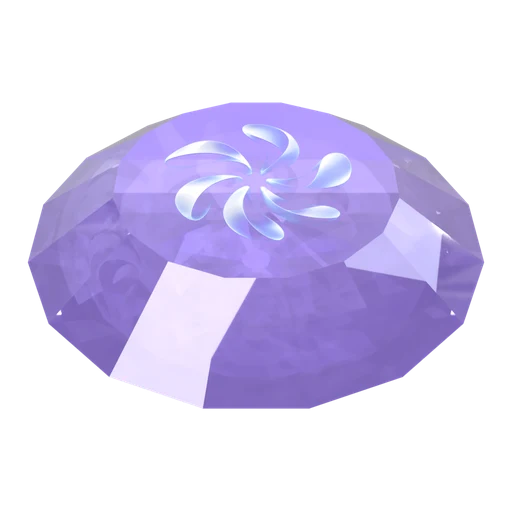
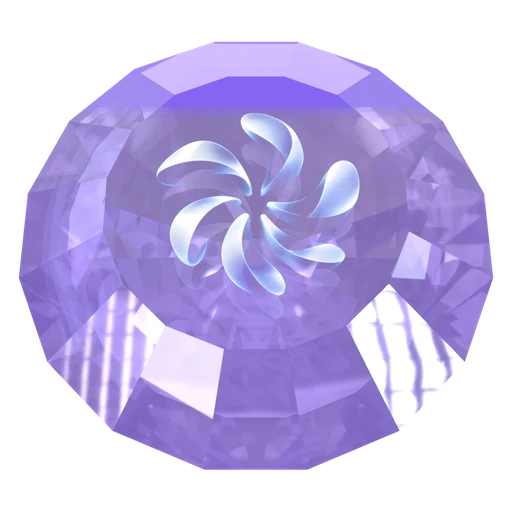
Render the emblems face-on and larger, brushed faces on the metals

diff --git a/web/src/site/Rewards.tsx b/web/src/site/Rewards.tsx
@@ -447,7 +447,7 @@ function RankHero({ ladder, unit, name, line, perks, figures, action, under }: {
         <div aria-hidden className="pointer-events-none absolute inset-0 bg-gradient-to-t from-panel
                                     via-panel/60 to-transparent" />
         <div className="relative flex flex-col items-start gap-6 sm:flex-row sm:items-center sm:gap-9">
-          <Emblem tint={tint} size={168} locked={!ladder} glow />
+          <Emblem tint={tint} size={210} locked={!ladder} glow />
           <div className="min-w-0 flex-1">
             <div className={CAPS}>{name ?? "Not connected"}</div>
             <div className="font-serif-display mt-2 text-[clamp(2.4rem,5vw,3.4rem)] leading-none tracking-[-.02em]">
@@ -568,15 +568,17 @@ function RankRow({ ladder, rungs, foot }: {
       <div className="strip-scroll">
         <div className="grid min-w-[640px]" style={{ gridTemplateColumns: `repeat(${rungs.length}, minmax(0, 1fr))` }}>
           {rungs.map((x, i) => {
-            const on = i === level, held = i <= level;
+            // With nobody connected there is nothing to compare against, so
+            // the ladder shows every rank as it is rather than all drained.
+            const on = i === level, held = ladder == null || i <= level;
             return (
               <div key={x.name} className={`relative flex flex-col items-center border-l border-line px-3 pb-6 pt-5
                                             text-center first:border-l-0 ${on ? "bg-panel2" : ""}`}>
                 <span className={`h-5 text-[10.5px] font-medium uppercase tracking-[.12em] ${
                   on ? "text-brand" : held ? "text-muted-foreground" : "text-dim"}`}>
-                  {on ? "Current" : held ? "Held" : "Locked"}
+                  {on ? "Current" : ladder == null ? "" : held ? "Held" : "Locked"}
                 </span>
-                <div className="mt-3"><Emblem tint={x.tint} size={72} locked={!held} glow={on} /></div>
+                <div className="mt-3"><Emblem tint={x.tint} size={120} locked={!held} glow={on} /></div>
                 <span className={`mt-4 text-[15px] font-medium ${held ? "" : "text-dim"}`}>{x.name}</span>
                 <span className="n mt-1 text-[11.5px] text-muted-foreground">{x.at}</span>
                 <span className={`n mt-0.5 text-[11.5px] ${on ? "text-foreground" : "text-muted-foreground"}`}>{x.perk}</span>
